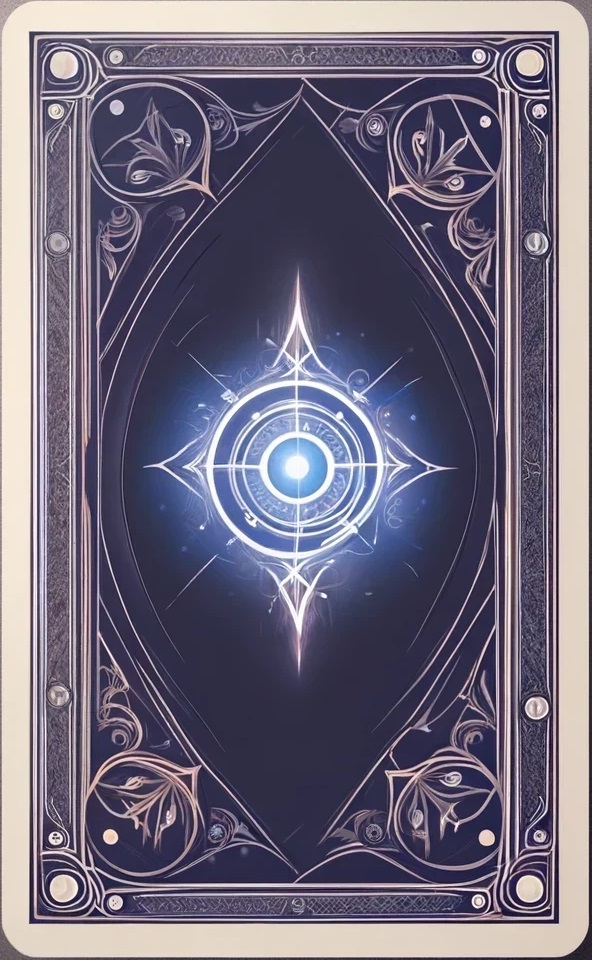
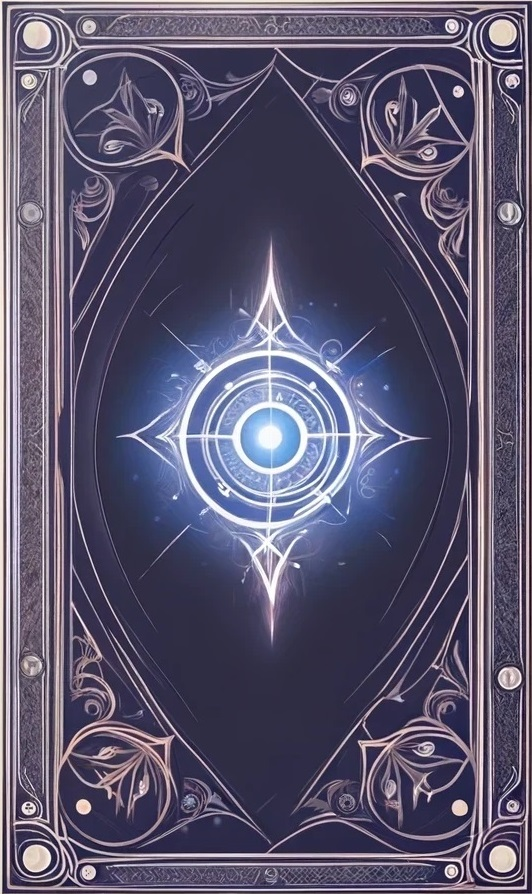
fix(card): spin properly front and back

diff --git a/src/app/styles/card.css b/src/app/styles/card.css
@@ -1,88 +1,98 @@
-/* 카드 레이아웃 */
-.card {
-  perspective: 1000px; /* 3D 효과 */
-}
-
-.card-border {
-  width: 220px;
-  height: 320px;
-  padding: 10px;
-  background: linear-gradient(45deg, hsl(34, 84%, 70%), #ecf3b9);
-  border-radius: 10px;
-  display: flex;
-  justify-content: center;
-  align-items: center;
-  transition: transform 0.6s ease-out; /* 상태 변경 애니메이션 */
-}
-
-.card-inner {
-  width: 200px;
-  height: 300px;
-  transform-style: preserve-3d;
-  transform: rotateY(0deg); /* 초기 상태 */
-  transition: transform 0.6s ease-out;
-}
-
-.card-image {
-  width: 100%; /* card-front와 card-back의 크기에 맞게 조정 */
-  height: 100%;
-  object-fit: cover; /* 비율 유지하며 card-inner 크기 채움 */
-  border-radius: 5px; /* 내부 카드의 모서리 둥글게 */
-}
-
-/* 앞면과 뒷면 */
-.card-front,
-.card-back {
-  position: absolute;
-  width: 100%;
-  height: 100%;
-  backface-visibility: hidden; /* 뒤집힐 때 숨김 */
-}
-
-.card-front {
-  transform: rotateY(0deg); /* 앞면 기본 상태 */
-}
-
-.card-back {
-  transform: rotateY(180deg); /* 뒷면 기본 상태 */
-}
-
-/* 회전 애니메이션 */
-.card.spinning .card-border {
-  animation: spin 1s linear infinite;
-}
-
-.card.slow-spin .card-border {
-  animation: slowSpin 3s ease-out forwards;
-}
-
-.card.growing .card-border {
-  animation: grow 1.5s ease-out forwards;
-}
-
-@keyframes spin {
-  0% {
-    transform: rotateY(0deg);
+  /* 카드 레이아웃 */
+  .card {
+    perspective: 1000px; /* 3D 효과 */
   }
-  100% {
-    transform: rotateY(360deg);
-  }
-}
 
-@keyframes slowSpin {
-  0% {
-    transform: rotateY(0deg);
+  .card-border {
+    width: 224px;
+    height: 324px;
+    background: radial-gradient(circle, rgba(255, 255, 255, 0.6), rgba(0, 0, 0, 0.9)), 
+                linear-gradient(45deg, #bca373, #3b3b3b);
+    border-radius: 15px; /* 이미지처럼 조금 더 둥글게 */
+    border: 12px solid rgba(255, 255, 255, 0.8); /* 이미지의 외곽선 느낌 */
+    display: flex;
+    justify-content: center;
+    align-items: center;
+    box-shadow: 0 4px 10px rgba(0, 0, 0, 0.5);
+    transform-style: preserve-3d;
   }
-  100% {
-    transform: rotateY(360deg);
-  }
-}
 
-@keyframes grow {
-  0% {
-    transform: scale(1);
+
+  .card-inner {
+    width: 200px;
+    height: 300px;
+    transform-style: preserve-3d;
+    transform: rotateY(0deg); /* 초기 상태 */
+    transition: transform 0.6s ease-out;
   }
-  100% {
-    transform: scale(1.15);
+
+  .card-image {
+    width: 100%; /* card-front와 card-back의 크기에 맞게 조정 */
+    height: 100%;
+    object-fit: cover; /* 비율 유지하며 card-inner 크기 채움 */
+    border-radius: 5px; /* 내부 카드의 모서리 둥글게 */
   }
-}
+
+  /* 앞면과 뒷면 */
+  .card-front,
+  .card-back {
+    position: absolute;
+    width: 100%;
+    height: 100%;
+    backface-visibility: hidden; /* 뒤집힐 때 숨김 */
+    transform-style: preserve-3d;
+  }
+
+  .card-front {
+    transform: rotateY(0deg); /* 앞면 기본 상태 */
+  }
+
+  .card-back {
+    transform: rotateY(180deg); /* 뒷면 기본 상태 */
+  }
+
+  /* 회전 애니메이션 */
+  .card.spinning .card-border {
+    animation: spin 1s linear infinite;
+  }
+
+  .card.slow-spin .card-border {
+    animation: slowSpin 3s ease-out forwards;
+  }
+
+  .card.growing .card-border {
+    animation: grow 1.5s ease-out forwards;
+  }
+
+  @keyframes spin {
+    0% {
+      transform: rotateY(0deg);
+    }
+    50% {
+      transform: rotateY(180deg);
+    }
+    100% {
+      transform: rotateY(360deg);
+    }
+  }
+
+  @keyframes slowSpin {
+    0% {
+      transform: rotateY(0deg);
+    }
+    50% {
+      transform: rotateY(180deg);
+    }
+    100% {
+      transform: rotateY(360deg);
+    }
+  }
+
+  @keyframes grow {
+    0% {
+      transform: scale(1);
+    }
+    100% {
+      transform: scale(1.15);
+    }
+  }

diff --git a/src/components/Card.tsx b/src/components/Card.tsx
@@ -12,7 +12,6 @@ const backImages: string = '/images/card_back.jpg'; // 뒷면 이미지
 
 const Card: React.FC = () => {
   const [animationStep, setAnimationStep] = useState(0); // 클릭 상태 추적
-  const isBackVisible = animationStep >= 1 && animationStep <= 2; // 2~3단계에서는 뒷면 보임
 
   const flipCard = () => {
     setAnimationStep((prevStep) => (prevStep + 1) % 4); // 단계 순환: 0 → 1 → 2 → 3 → 0
@@ -26,22 +25,14 @@ const Card: React.FC = () => {
         ${animationStep === 3 ? 'growing' : ''}`}
       onClick={flipCard}
     >
-      <div className="card-border"
-      style = {{
-          transform:
-            animationStep === 0 || animationStep === 3
-              ? 'rotateY(0deg)' // 초기 또는 멈춘 상태: 앞면만 보임
-              : 'rotateY(360deg)', // 회전 중: 앞뒤면 번갈아 보임
-      }} >
-        <div className="card-inner" style={{ transform: isBackVisible ? 'rotateY(180deg)' : 'rotateY(0deg)' }}>
+      <div className="card-border">
+        <div className="card-inner">
           <div className="card-front">
             <img src={frontImages[animationStep]} alt={`Card front ${animationStep}`} className="card-image" />
           </div>
-          {isBackVisible && ( // 뒷면 표시 여부 조건
             <div className="card-back">
               <img src={backImages} alt="Card back" className="card-image" />
             </div>
-          )}
         </div>
       </div>
     </div>
